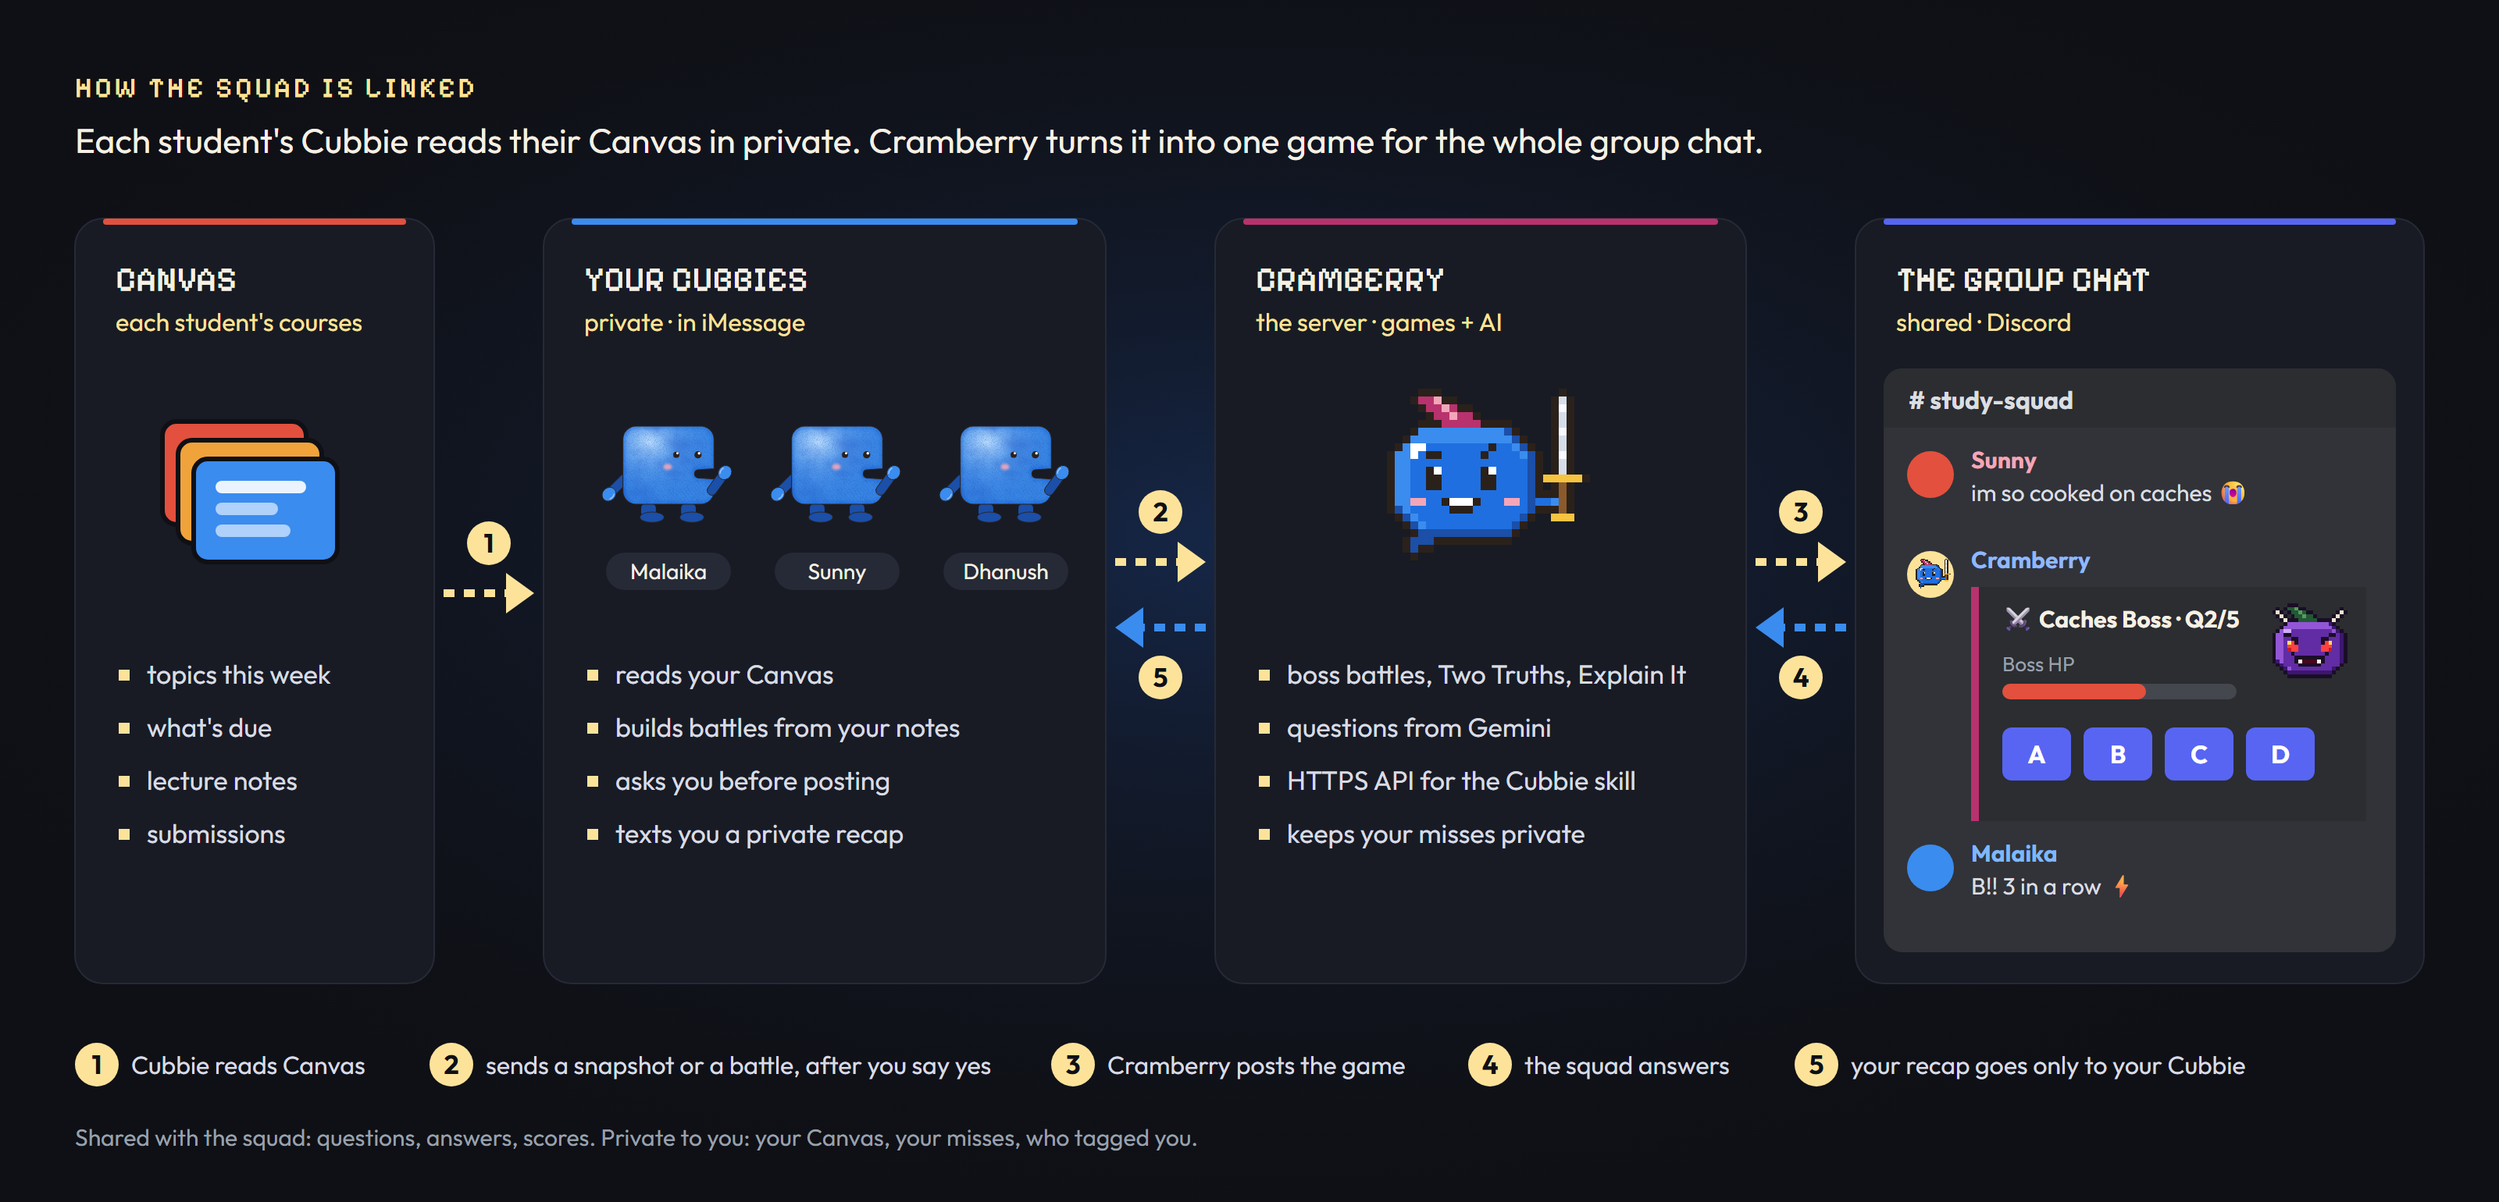
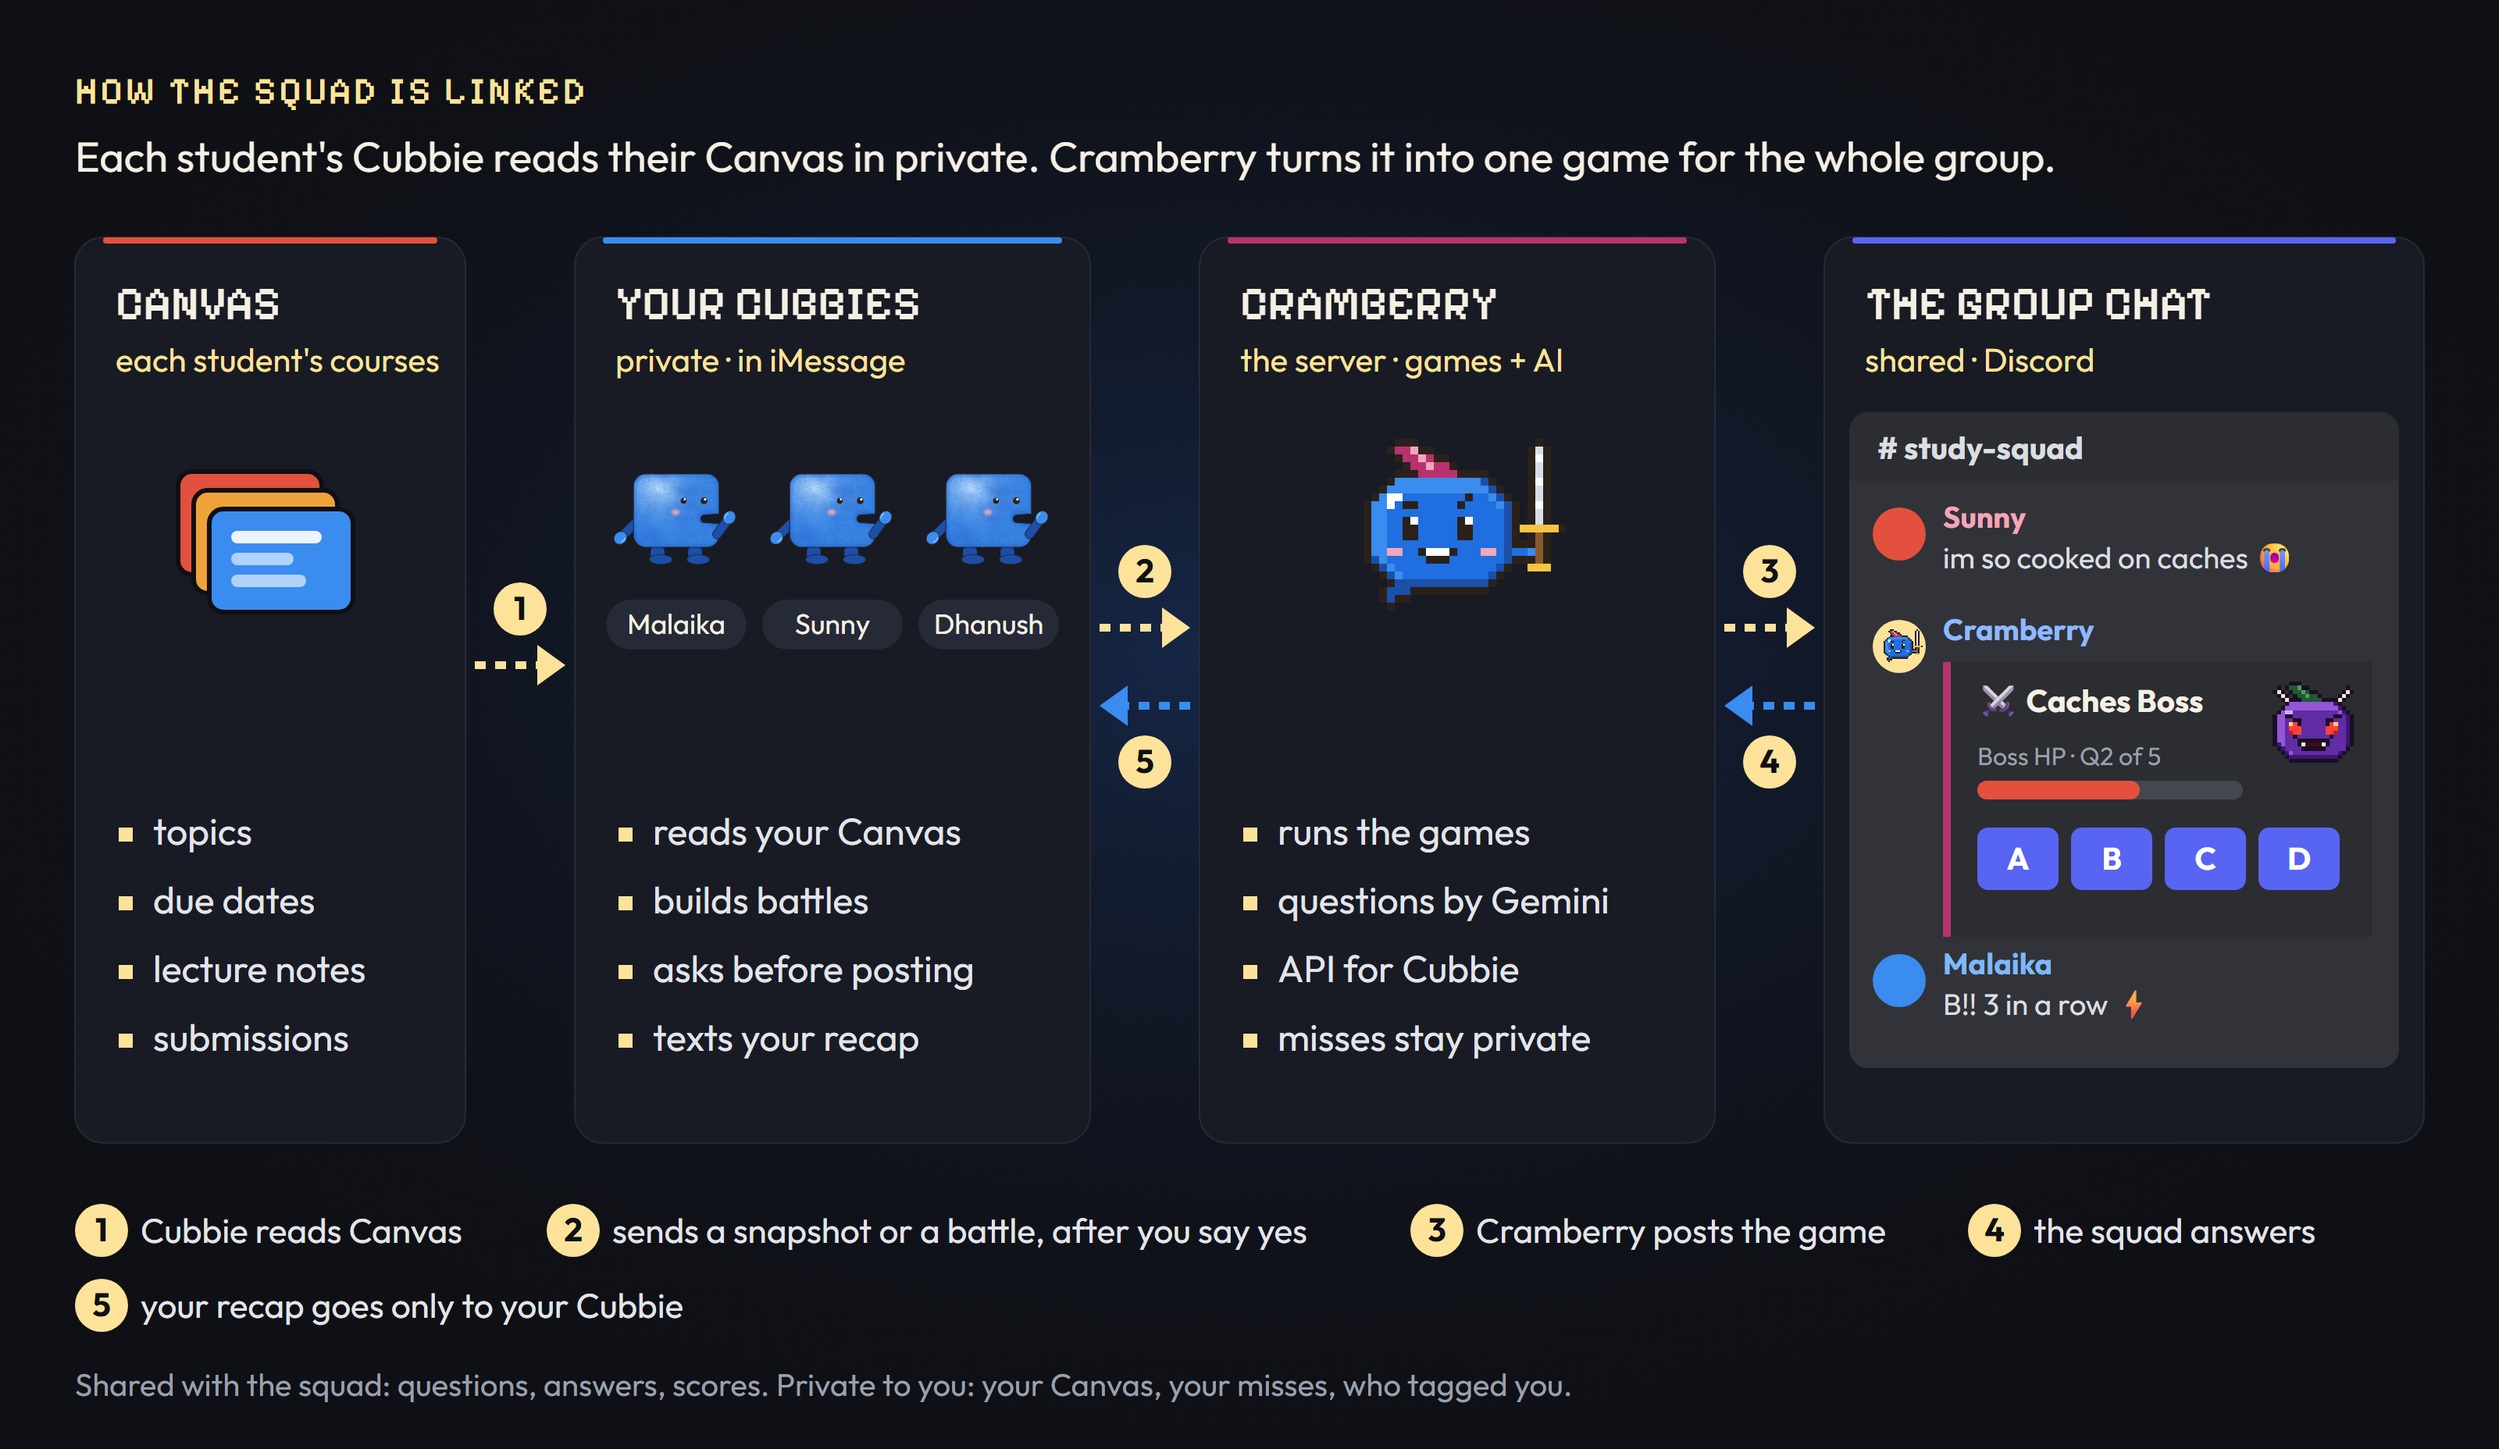
Readable README images and repo social preview
Bigger text in the loop diagram and Cubbie chats, full-width rally and profile images, and a Cramberry social preview for the repo link.

diff --git a/README.md b/README.md
@@ -106,7 +106,7 @@ Every battle posts a picture card after each question, drawn live by the bot.
 Say you're cooked in the group chat (*"im cooked"*, *"gonna fail"*, *"send help"*) and Cramberry rallies the whole
 squad instead of letting you spiral.
 
-<div align="center"><img src="docs/img/sos.png" width="720" alt="Discord: Sunny says they're cooked on caches, and Cramberry replies with a five-step game plan: battle, explain, plan, focus, radar"></div>
+<div align="center"><img src="docs/img/sos.png" width="860" alt="Discord: Sunny says they're cooked on caches, and Cramberry replies with a five-step game plan: battle, explain, plan, focus, radar"></div>
 
 It never guesses your topic, stays quiet during games, answers at most once every 5 minutes, and *"we cooked that
 exam"* doesn't count.
@@ -126,7 +126,7 @@ exam"* doesn't count.
 | `/link` · `/ask_cubbie <topic>` | Connect your Cubbie, or ask every linked Cubbie to build a battle from Canvas. |
 | `/quiet` · `/watch` | Stop or allow reading the chat. |
 
-<div align="center"><img src="docs/img/card-profile.png" width="720" alt="Profile card for Dhanush: level 3 Junior, an XP bar, and tiles for games, accuracy, streak, badges and total XP"></div>
+<div align="center"><img src="docs/img/card-profile.png" width="860" alt="Profile card for Dhanush: level 3 Junior, an XP bar, and tiles for games, accuracy, streak, badges and total XP"></div>
 
 Every game gives XP. Levels run from **Freshman** to **Professor**, and badges like Boss Slayer, Perfect Round and
 High Roller show on `/profile`. Once a Cubbie has shared your courses, `/battle CSE230` means *your* CSE 230, not
